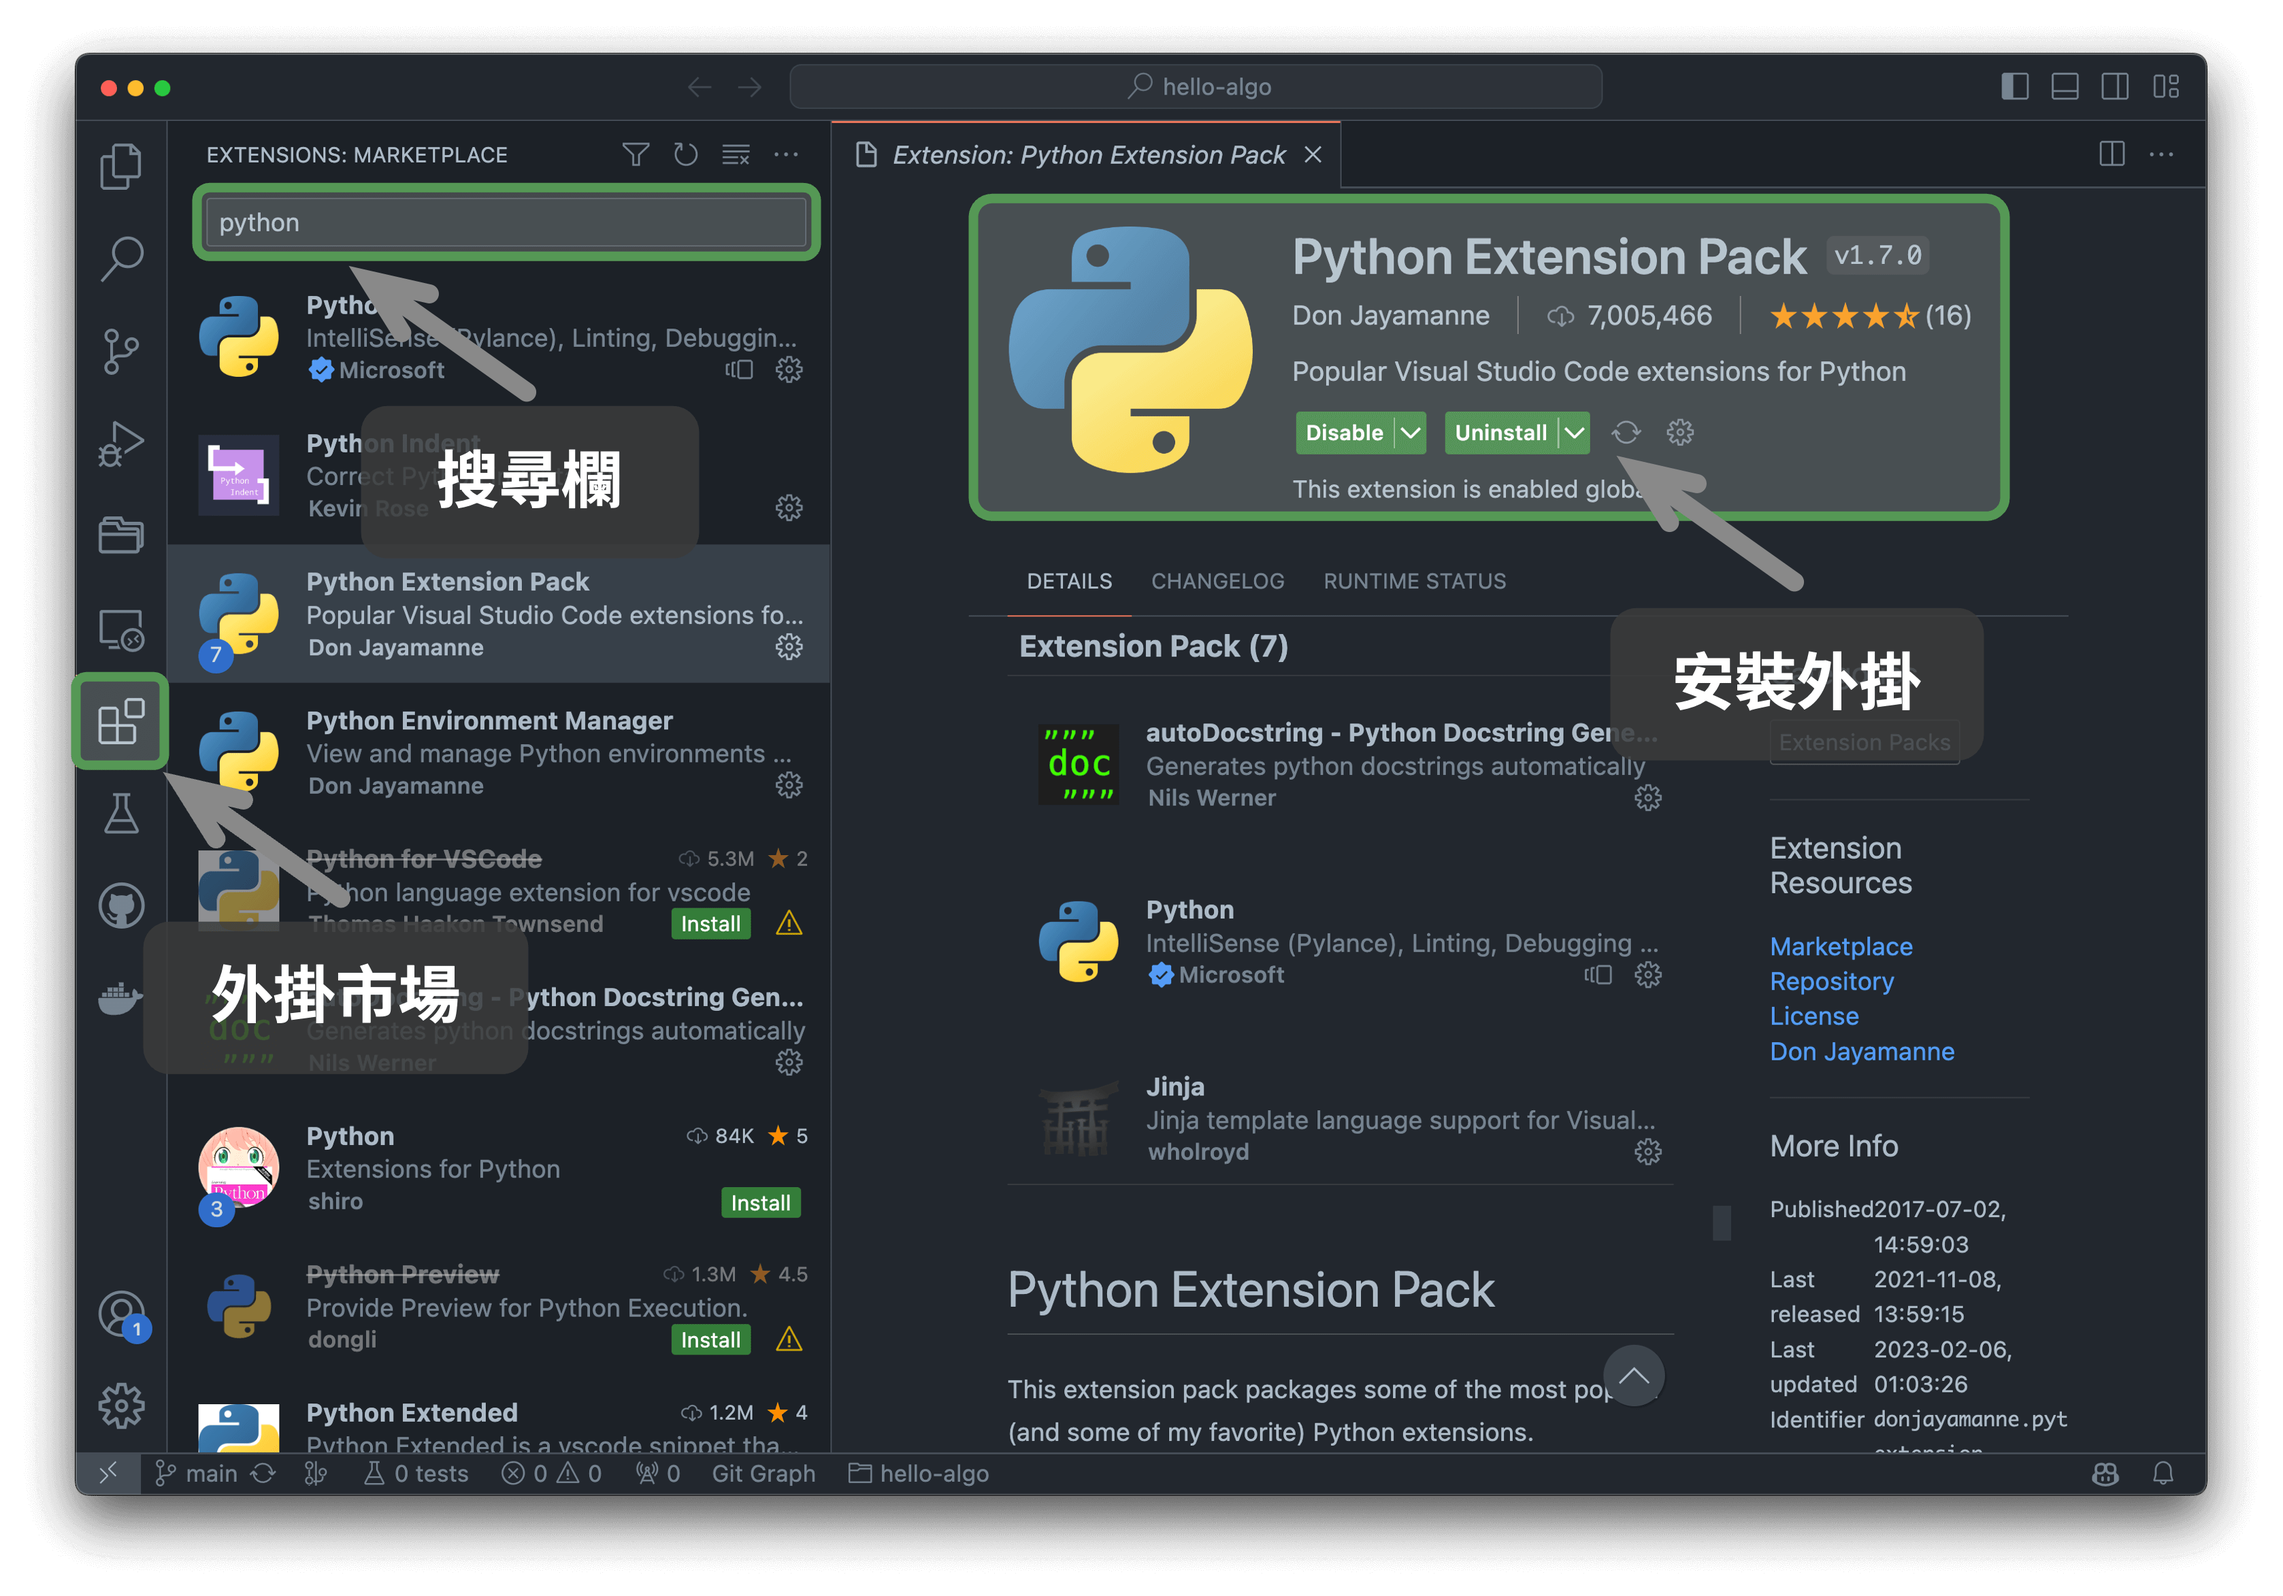
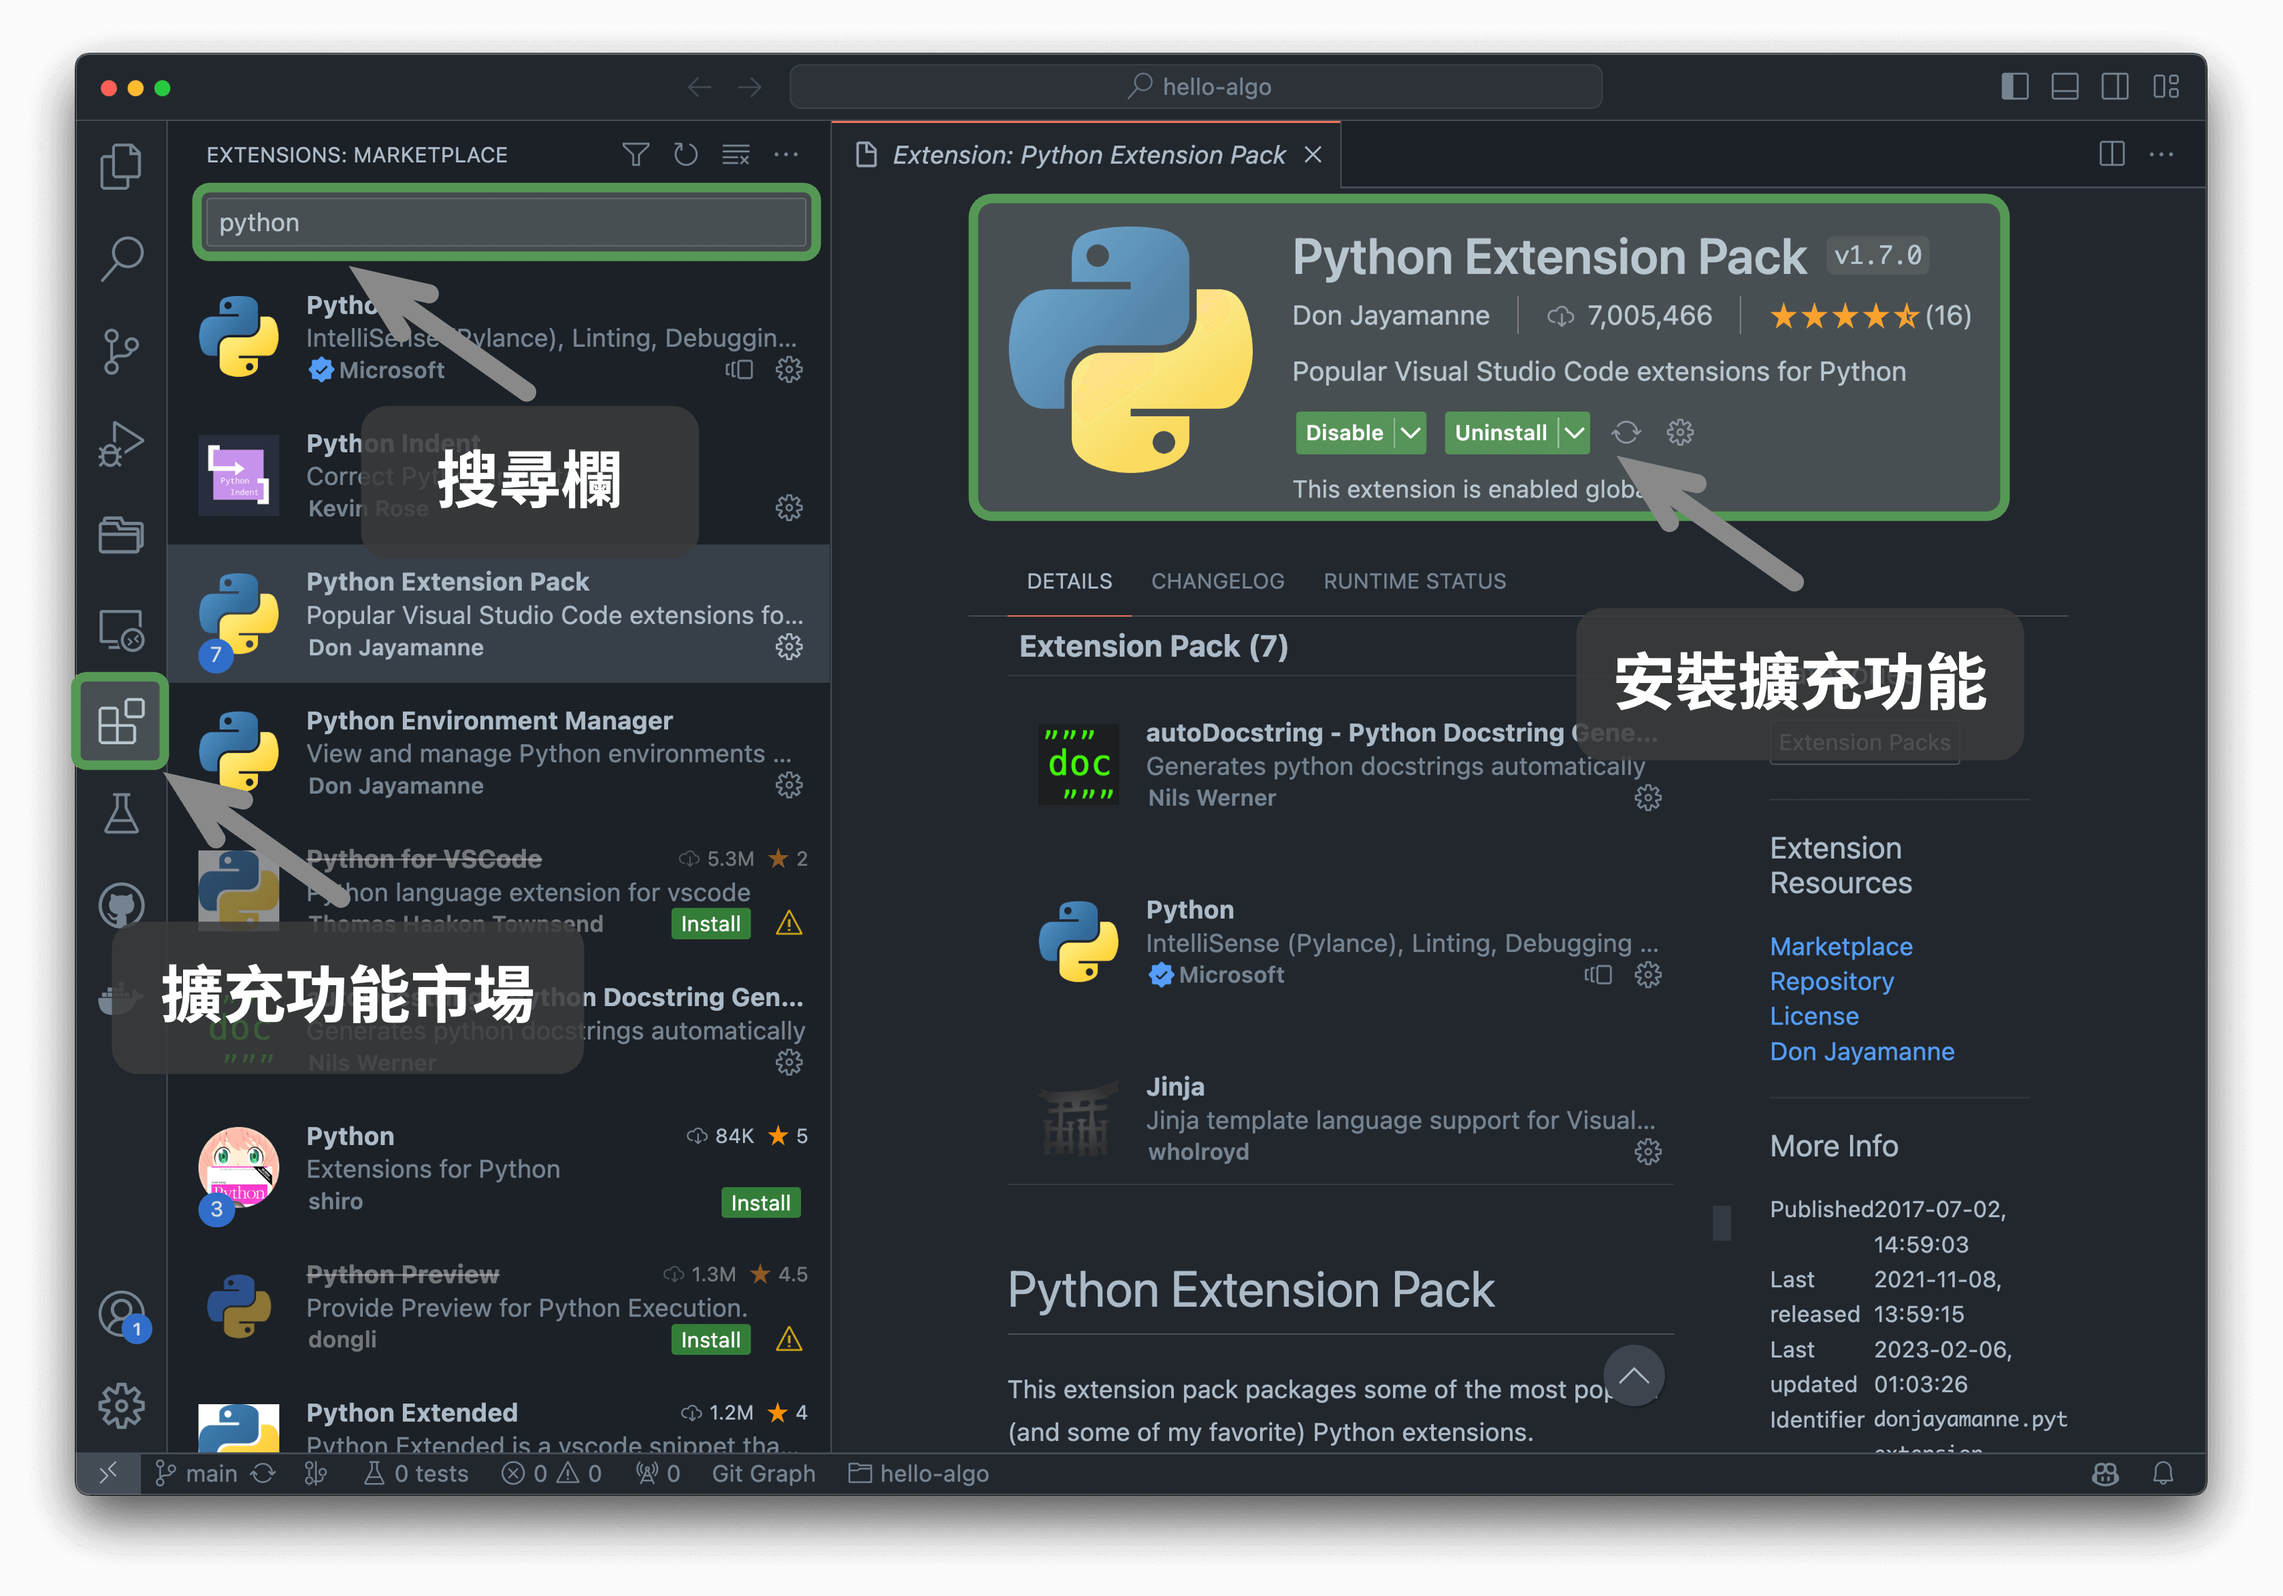
外掛 -> 擴充功能

diff --git a/zh-Hant/docs/chapter_appendix/installation.md b/zh-Hant/docs/chapter_appendix/installation.md
@@ -15,49 +15,49 @@ VS Code 擁有強大的擴展包生態系統，支持大多數程式語言的執
 ### Python 環境
 
 1. 下載並安裝 [Miniconda3](https://docs.conda.io/en/latest/miniconda.html) ，需要 Python 3.10 或更新版本。
-2. 在 VS Code 的外掛市場中搜索 `python` ，安裝 Python Extension Pack 。
+2. 在 VS Code 的擴充功能市場中搜索 `python` ，安裝 Python Extension Pack 。
 3. （可選）在命令列輸入 `pip install black` ，安裝程式碼格式化工具。
 
 ### C/C++ 環境
 
 1. Windows 系統需要安裝 [MinGW](https://sourceforge.net/projects/mingw-w64/files/)（[配置教程](https://blog.csdn.net/qq_33698226/article/details/129031241)）；MacOS 自帶 Clang ，無須安裝。
-2. 在 VS Code 的外掛市場中搜索 `c++` ，安裝 C/C++ Extension Pack 。
+2. 在 VS Code 的擴充功能市場中搜索 `c++` ，安裝 C/C++ Extension Pack 。
 3. （可選）開啟 Settings 頁面，搜尋 `Clang_format_fallback Style` 程式碼格式化選項，設定為 `{ BasedOnStyle: Microsoft, BreakBeforeBraces: Attach }` 。
 
 ### Java 環境
 
 1. 下載並安裝 [OpenJDK](https://jdk.java.net/18/)（版本需滿足 > JDK 9）。
-2. 在 VS Code 的外掛市場中搜索 `java` ，安裝 Extension Pack for Java 。
+2. 在 VS Code 的擴充功能市場中搜索 `java` ，安裝 Extension Pack for Java 。
 
 ### C# 環境
 
 1. 下載並安裝 [.Net 8.0](https://dotnet.microsoft.com/en-us/download) 。
-2. 在 VS Code 的外掛市場中搜索 `C# Dev Kit` ，安裝 C# Dev Kit （[配置教程](https://code.visualstudio.com/docs/csharp/get-started)）。
+2. 在 VS Code 的擴充功能市場中搜索 `C# Dev Kit` ，安裝 C# Dev Kit （[配置教程](https://code.visualstudio.com/docs/csharp/get-started)）。
 3. 也可使用 Visual Studio（[安裝教程](https://learn.microsoft.com/zh-cn/visualstudio/install/install-visual-studio?view=vs-2022)）。
 
 ### Go 環境
 
 1. 下載並安裝 [go](https://go.dev/dl/) 。
-2. 在 VS Code 的外掛市場中搜索 `go` ，安裝 Go 。
+2. 在 VS Code 的擴充功能市場中搜索 `go` ，安裝 Go 。
 3. 按快捷鍵 `Ctrl + Shift + P` 撥出命令欄，輸入 go ，選擇 `Go: Install/Update Tools` ，全部勾選並安裝即可。
 
 ### Swift 環境
 
 1. 下載並安裝 [Swift](https://www.swift.org/download/) 。
-2. 在 VS Code 的外掛市場中搜索 `swift` ，安裝 [Swift for Visual Studio Code](https://marketplace.visualstudio.com/items?itemName=sswg.swift-lang) 。
+2. 在 VS Code 的擴充功能市場中搜索 `swift` ，安裝 [Swift for Visual Studio Code](https://marketplace.visualstudio.com/items?itemName=sswg.swift-lang) 。
 
 ### JavaScript 環境
 
 1. 下載並安裝 [node.js](https://nodejs.org/en/) 。
-2. 在 VS Code 的外掛市場中搜索 `javascript` ，安裝 JavaScript (ES6) code snippets 。
-3. （可選）在 VS Code 的外掛市場中搜索 `Prettier` ，安裝程式碼格式化工具。
+2. 在 VS Code 的擴充功能市場中搜索 `javascript` ，安裝 JavaScript (ES6) code snippets 。
+3. （可選）在 VS Code 的擴充功能市場中搜索 `Prettier` ，安裝程式碼格式化工具。
 
 ### Dart 環境
 
 1. 下載並安裝 [Dart](https://dart.dev/get-dart) 。
-2. 在 VS Code 的外掛市場中搜索 `dart` ，安裝 [Dart](https://marketplace.visualstudio.com/items?itemName=Dart-Code.dart-code) 。
+2. 在 VS Code 的擴充功能市場中搜索 `dart` ，安裝 [Dart](https://marketplace.visualstudio.com/items?itemName=Dart-Code.dart-code) 。
 
 ### Rust 環境
 
 1. 下載並安裝 [Rust](https://www.rust-lang.org/tools/install) 。
-2. 在 VS Code 的外掛市場中搜索 `rust` ，安裝 [rust-analyzer](https://marketplace.visualstudio.com/items?itemName=rust-lang.rust-analyzer) 。
+2. 在 VS Code 的擴充功能市場中搜索 `rust` ，安裝 [rust-analyzer](https://marketplace.visualstudio.com/items?itemName=rust-lang.rust-analyzer) 。
